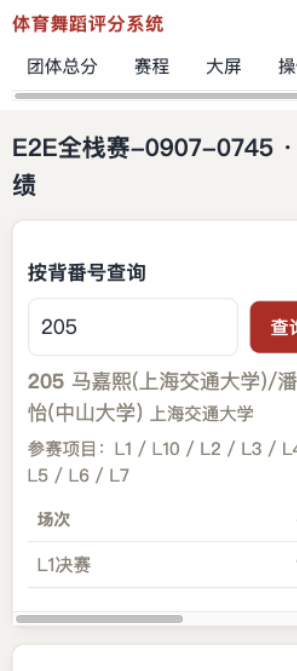
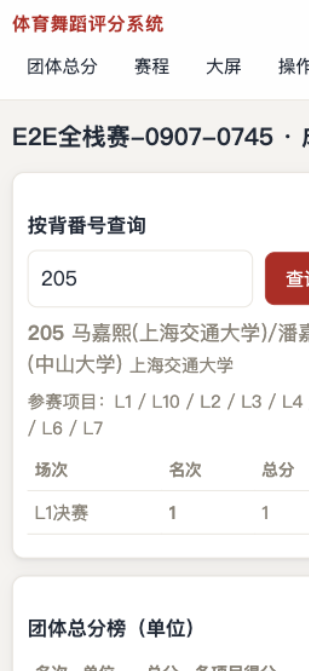
R34移动端表格适配：去全局520px横滑改为自适应换行(overflow-wrap)+次要列窄屏隐藏(.hm)+进度矩阵保留横滑例外+查询卡/退出/用户入口等；全页面375溢出审计通过

diff --git a/server/templates/schedule.html b/server/templates/schedule.html
@@ -56,16 +56,16 @@
     {% if r.all_done %}<span class="tag ok">已全部计算</span>{% else %}<span class="tag warn">进行中/待开始</span>{% endif %}
   </h3>
   <table>
-    <tr><th>场次</th><th>名称</th><th>舞种</th><th>类型</th><th class="num">晋级</th><th>状态</th><th class="num">人数</th><th>顺</th><th>操作</th></tr>
+    <tr><th>场次</th><th>名称</th><th class="hm">舞种</th><th class="hm">类型</th><th class="num hm">晋级</th><th>状态</th><th class="num hm">人数</th><th>顺</th><th>操作</th></tr>
     {% for ev in r.events %}
     <tr data-code="{{ ev.code }}" data-status="{{ ev.status }}">
-      <td>{{ ev.code }}</td><td>{{ ev.name }}</td><td>{{ ev.dances | join("、") }}</td><td>{{ ev.scoring_type }}</td>
-      <td class="num">{{ ev.advancement_count }}</td>
+      <td>{{ ev.code }}</td><td>{{ ev.name }}</td><td class="hm">{{ ev.dances | join("、") }}</td><td class="hm">{{ ev.scoring_type }}</td>
+      <td class="num hm">{{ ev.advancement_count }}</td>
       <td>{% if ev.status == 'published' %}<span class="tag ok">已发布</span>
           {% elif ev.status == 'calculated' %}<span class="tag acc">已计算</span>
           {% elif ev.status == 'scoring' %}<span class="tag warn">评分中</span>
           {% else %}<span class="tag gray">待开始</span>{% endif %}</td>
-      <td class="num">{{ ev.roster_n }}</td>
+      <td class="num hm">{{ ev.roster_n }}</td>
       <td>{% if ev.run_seq %}<span class="tag">{{ ev.run_seq }}</span>{% else %}<span class="muted">—</span>{% endif %}</td>
       <td>
         <a class="btn secondary" href="/events/{{ comp.id }}/console/{{ ev.id }}">控制台</a>

diff --git a/server/static/style.css b/server/static/style.css
@@ -140,9 +140,14 @@ body.judge-sheet .btn.big { width: 100%; margin-top: 14px; }
   header nav a { white-space: nowrap; padding: 8px 12px; }   /* 触控目标 ≥40px */
   header nav span { white-space: nowrap; }                    /* N3：角色/代码标签不逐字换行 */
   .card { padding: 12px; overflow-x: auto; -webkit-overflow-scrolling: touch; }
-  table { min-width: 520px; font-size: .86rem; }
-  th, td { padding: 7px 8px; }
+  /* R34：移动端表格自适应收窄换行，不再强制 520px 横滑 */
+  table { width: 100%; font-size: .86rem; }
+  th, td { padding: 6px 6px; overflow-wrap: anywhere; }
   .card.table-fit table { min-width: 0; }
+  /* 裁判×舞种进度矩阵：唯一保留横滑的例外（dense tabular） */
+  #matrix { min-width: 420px; }
+  /* R34：次要信息列窄屏隐藏（防连场面板/赛事列表等） */
+  .hm { display: none !important; }
   /* 触控目标与防 iOS 聚焦缩放 */
   .btn { padding: 10px 16px; font-size: .95rem; }
   .btn.big { padding: 14px 20px; font-size: 1.1rem; width: 100%; }

diff --git a/server/templates/base.html b/server/templates/base.html
@@ -5,7 +5,7 @@
 <meta name="viewport" content="width=device-width, initial-scale=1, viewport-fit=cover">
 <meta name="theme-color" content="#b91c1c">
 <title>{% block title %}体育舞蹈评分系统{% endblock %}</title>
-<link rel="stylesheet" href="/static/style.css?v=r32">
+<link rel="stylesheet" href="/static/style.css?v=r34">
 </head>
 <body class="{% block bodyclass %}{% endblock %}">
 <header>

diff --git a/server/templates/events.html b/server/templates/events.html
@@ -16,7 +16,7 @@
 </div>
 <div class="card">
   <h2>赛事列表</h2>
-  <table id="tbl"><tr><th>ID</th><th>名称</th><th>日期</th><th>地点</th><th>状态</th><th>操作</th></tr></table>
+  <table id="tbl"><tr><th>ID</th><th>名称</th><th class="hm">日期</th><th class="hm">地点</th><th>状态</th><th>操作</th></tr></table>
 </div>
 {% endblock %}
 {% block scripts %}
